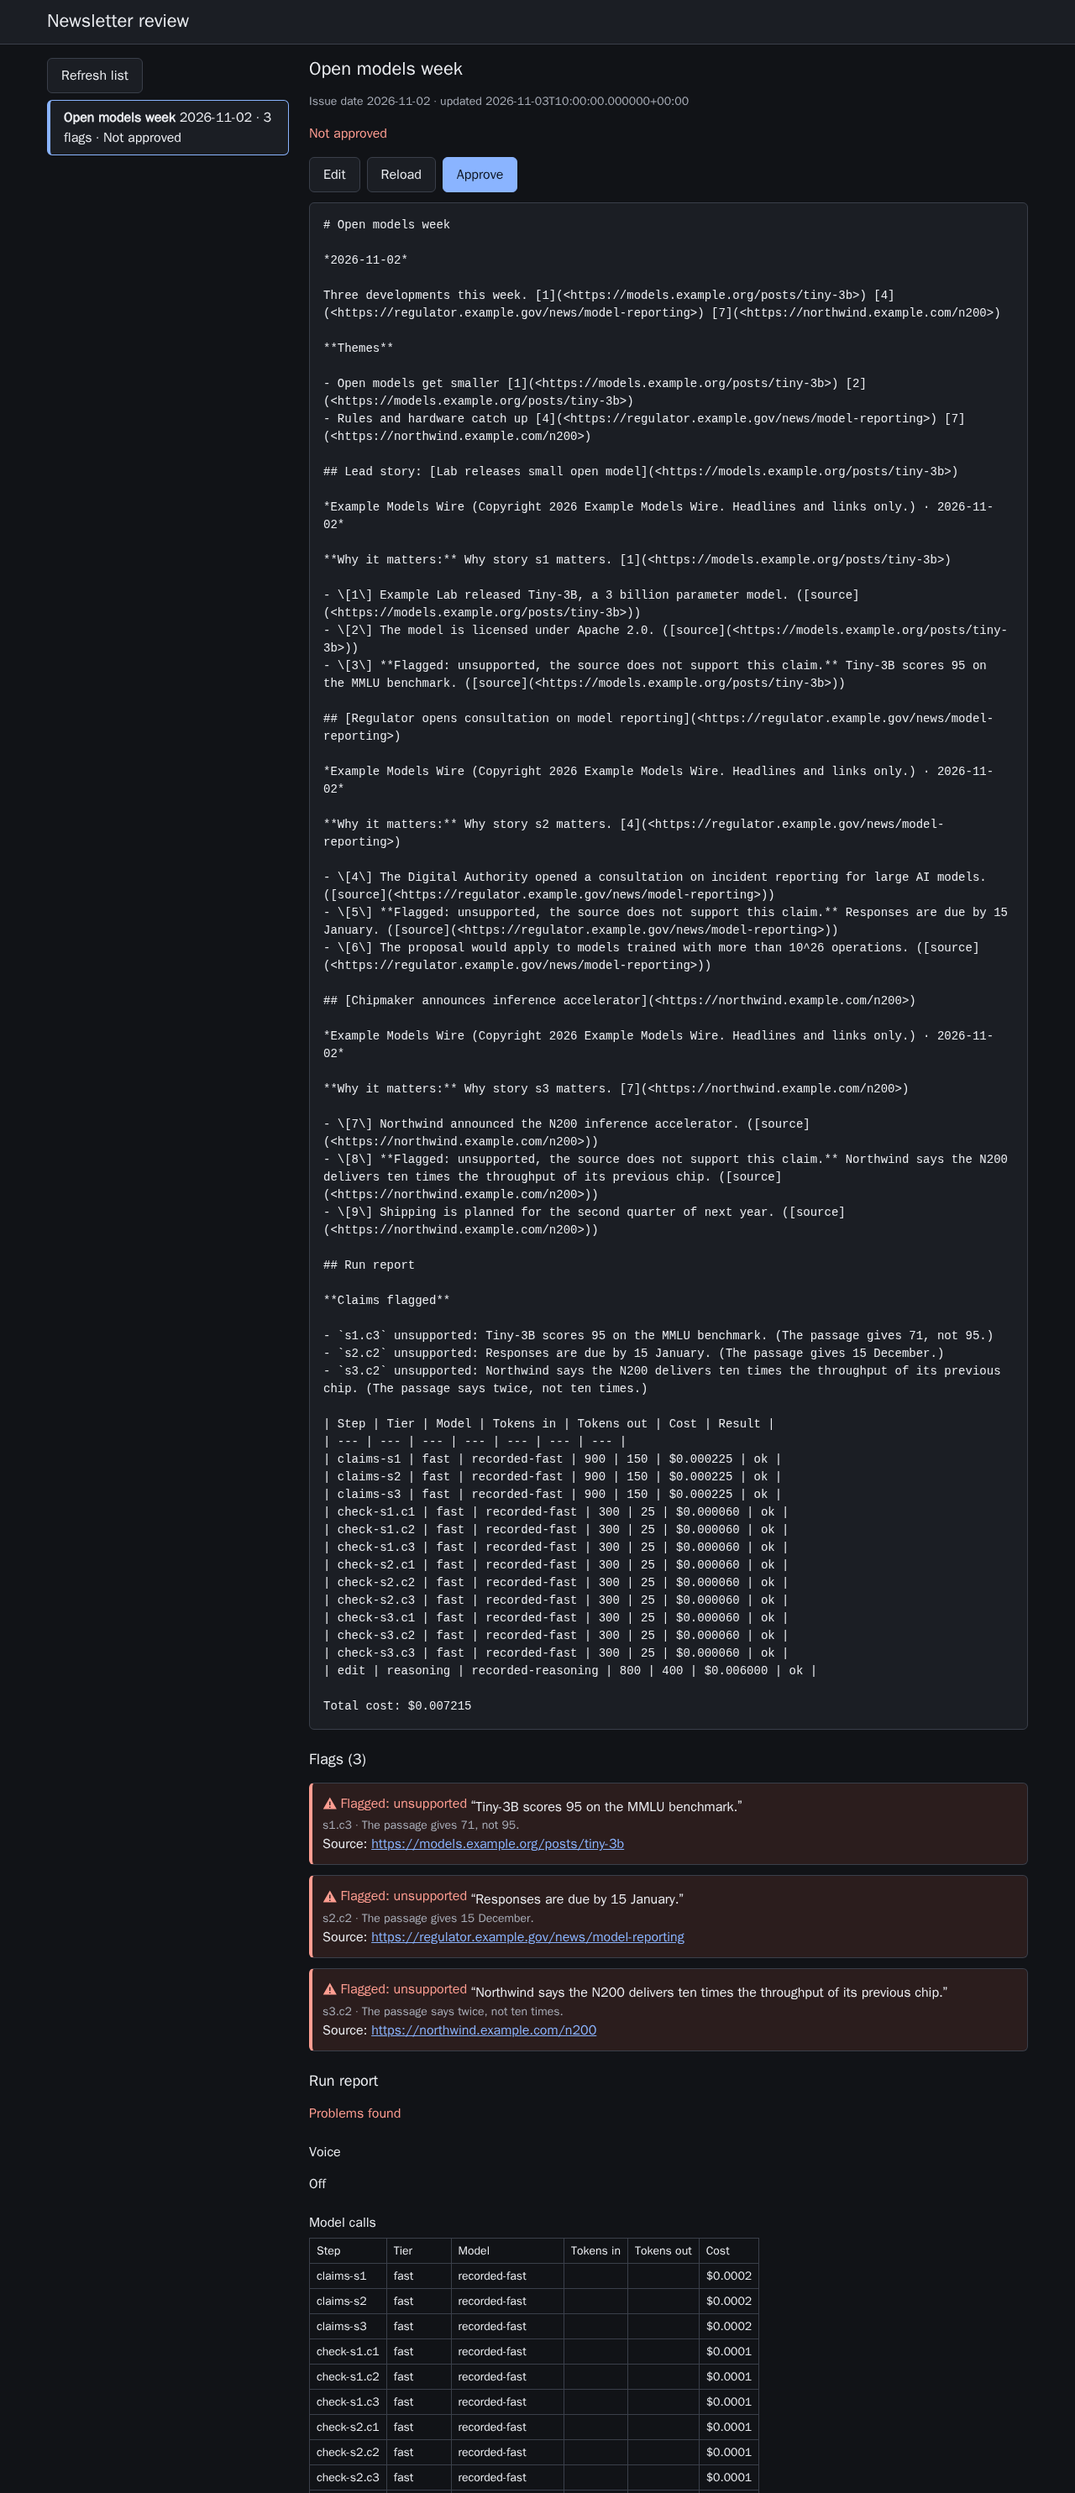
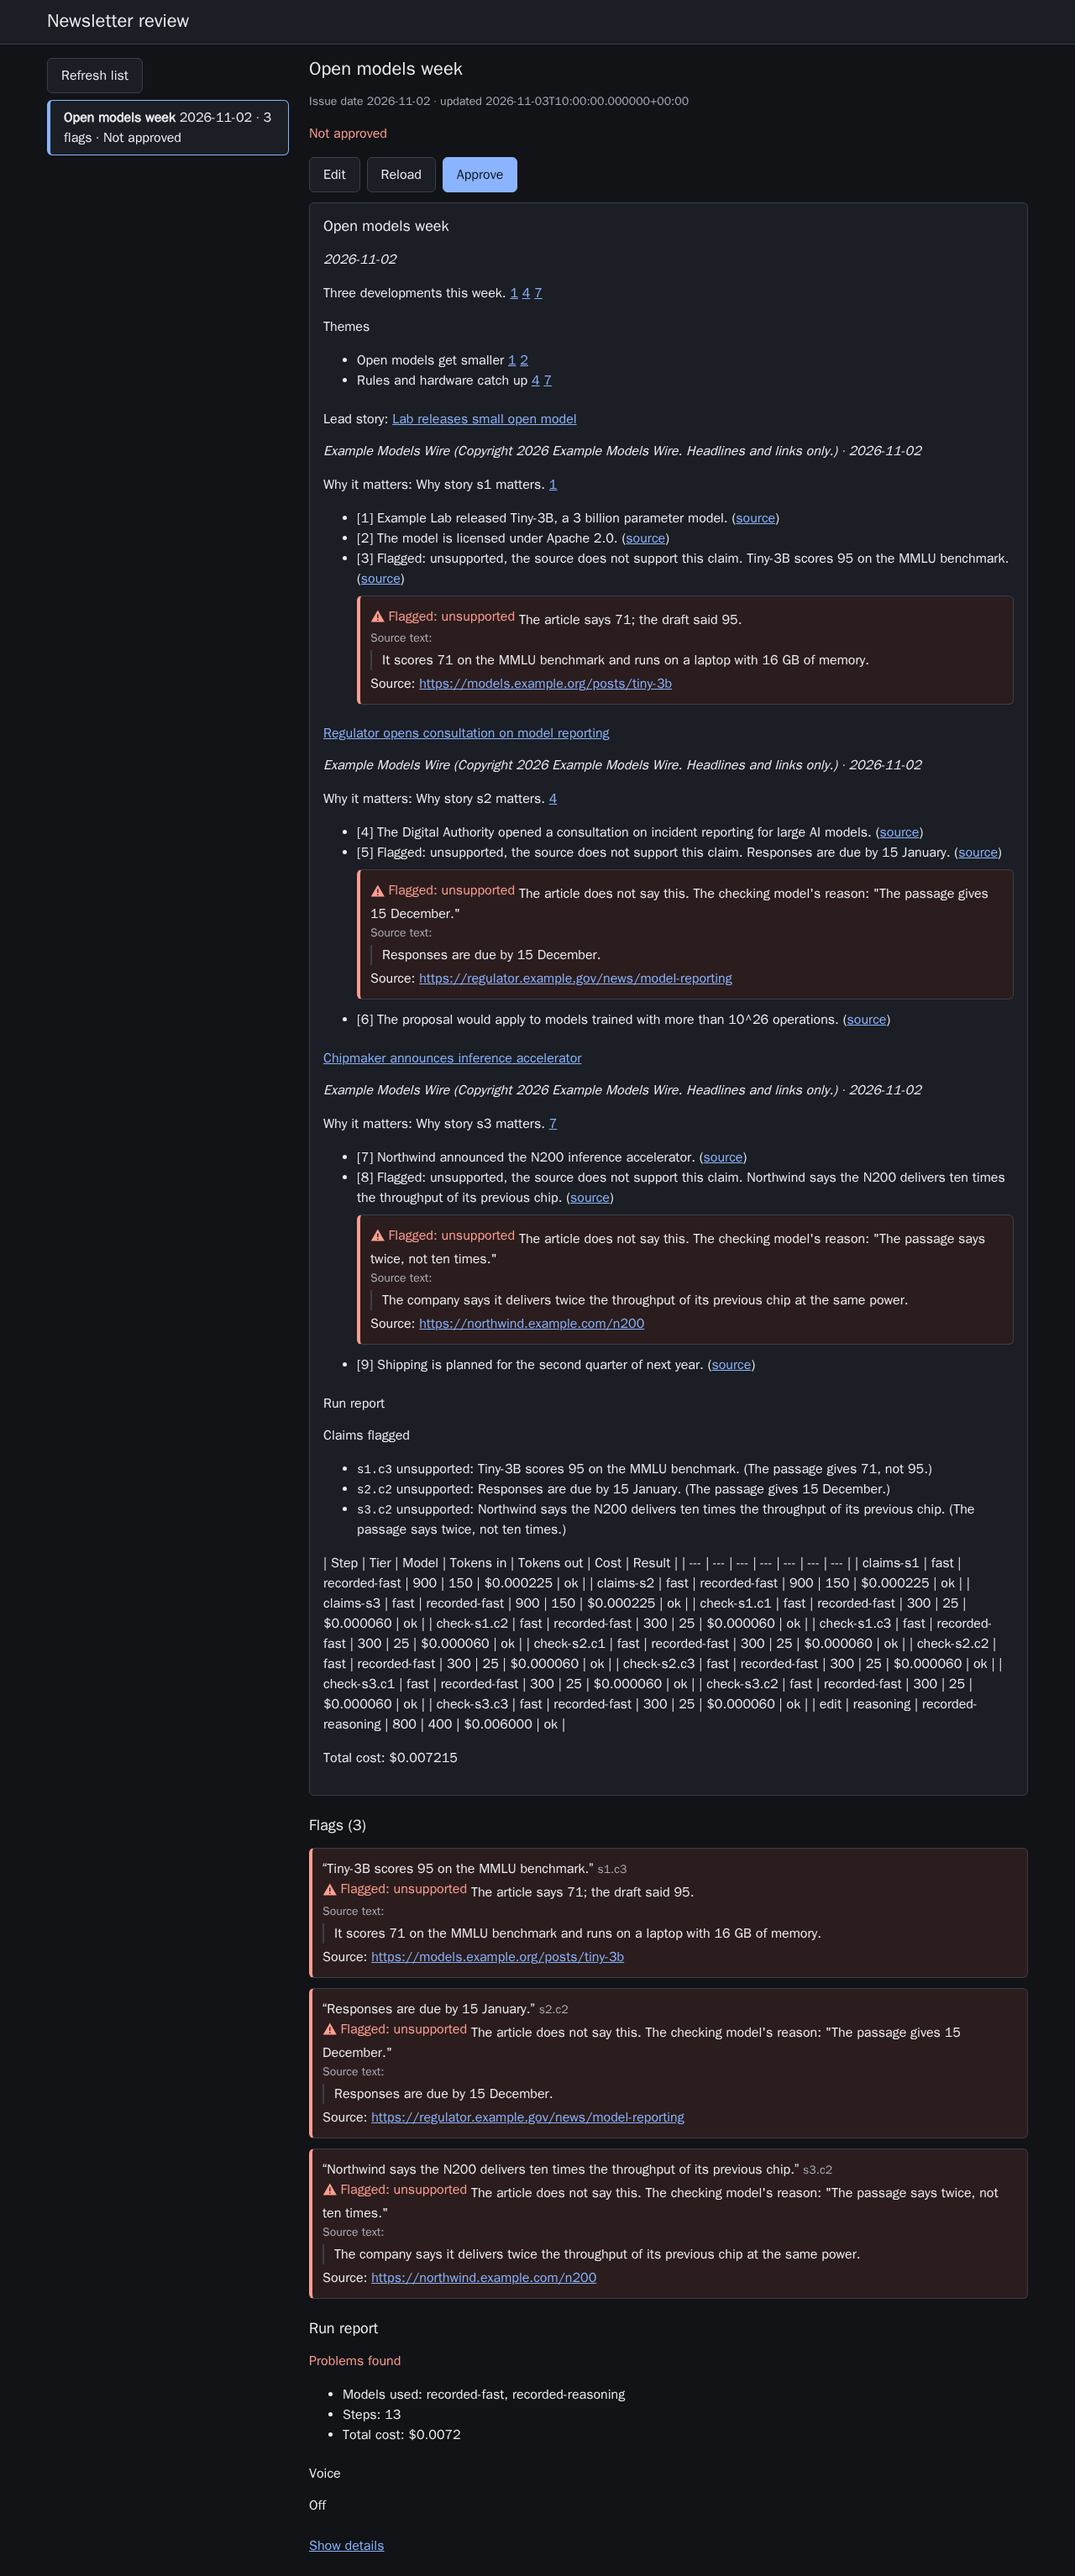
Approve opens a sandboxed email preview of the approved draft; nothing is sent (epic 09.1 T2)

diff --git a/web/src/DraftView.tsx b/web/src/DraftView.tsx
@@ -101,19 +101,22 @@ export function DraftView({ api, draft, onChange }: { api: Api; draft: Draft; on
   const [editing, setEditing] = useState<string | null>(null);
   const [busy, setBusy] = useState(false);
   const [error, setError] = useState<string | null>(null);
+  // The email for the text that was approved here; an edit that clears the approval hides it.
+  const [email, setEmail] = useState<{ text: string; html: string } | null>(null);
+  const preview = email && draft.approved && email.text === draft.text ? email.html : null;
   const unsaved = editing !== null && editing !== draft.text;
   const flags = useMemo(() => draft.flags ?? [], [draft.flags]);
   const components = useMemo(() => withFlags(flags), [flags]);
   const rehypePlugins = useMemo(() => [markFlags(flags)], [flags]);
   const focus = draft.focus || draft.report?.focus;
 
-  async function act(action: () => Promise<Draft>, after?: (d: Draft) => void) {
+  async function act(action: () => Promise<Draft>, after?: (d: Draft) => void | Promise<void>) {
     setBusy(true);
     setError(null);
     try {
       const updated = await action();
       onChange(updated);
-      after?.(updated);
+      await after?.(updated);
     } catch (e) {
       setError(e instanceof Error ? e.message : String(e));
     } finally {
@@ -214,12 +217,25 @@ export function DraftView({ api, draft, onChange }: { api: Api; draft: Draft; on
             className="primary"
             disabled={busy || unsaved}
             title={unsaved ? "Save or discard the edit first" : undefined}
-            onClick={() => act(() => api.approve(draft))}
+            onClick={() =>
+              act(
+                () => api.approve(draft),
+                async (approved) => setEmail({ text: approved.text, html: (await api.email(approved.id)).html }),
+              )
+            }
           >
             Approve
           </button>
         )}
       </div>
+      {preview !== null && (
+        <section className="email-preview" aria-labelledby="email-preview-title">
+          <h3 id="email-preview-title">Email preview</h3>
+          <p className="state">Nothing was sent. This is what would go out.</p>
+          {/* sandbox="" with no allow-* lets the email run no script, submit no form and open nothing. */}
+          <iframe title="Email preview" sandbox="" srcDoc={preview} />
+        </section>
+      )}
       {editing !== null && draft.approved && (
         <p className="state">This draft is approved. Saving a change clears the approval: approve it again after.</p>
       )}

diff --git a/web/src/App.test.tsx b/web/src/App.test.tsx
@@ -36,6 +36,10 @@ function fakeApi(start: Draft) {
       draft = { ...draft, approval: { sha256: body.sha256, approved_at: "now" }, approved: true };
       return json(200, draft);
     }
+    if (method === "GET" && url === `/api/drafts/${draft.id}/email`) {
+      if (!draft.approved) return json(409, { detail: "the draft's current text is not approved; approve it first" });
+      return json(200, { html: `<p>${draft.text}</p>` });
+    }
     return json(404, { detail: "not found" });
   });
   return {
@@ -272,6 +276,18 @@ describe("edit and approve", () => {
     const call = api.calls.find((c) => c.method === "POST");
     expect(call?.body).toEqual({ sha256: await sha(makeDraft().text) });
     expect(screen.queryByRole("button", { name: "Approve" })).toBeNull();
+  });
+
+  it("then shows the email the API would send, and sends nothing", async () => {
+    const { api, user } = await openDraft();
+    await user.click(screen.getByRole("button", { name: "Approve" }));
+    const region = await screen.findByRole("region", { name: "Email preview" });
+    expect(region).toHaveTextContent("Nothing was sent. This is what would go out.");
+    expect(within(region).getByTitle("Email preview")).toHaveAttribute("srcdoc", `<p>${makeDraft().text}</p>`);
+    expect(api.calls.map((c) => `${c.method} ${c.url}`).slice(-2)).toEqual([
+      `POST /api/drafts/${makeDraft().id}/approve`,
+      `GET /api/drafts/${makeDraft().id}/email`,
+    ]);
   });
 
   it("refuses to show approved when the draft changed under the reviewer", async () => {

diff --git a/web/src/api.ts b/web/src/api.ts
@@ -1,4 +1,4 @@
-/** The page's calls to `newsletter serve`: check feeds, start a run, list, read, edit and approve drafts. */
+/** The page's calls to `newsletter serve`: check feeds, start a run, list, read, edit and approve drafts, preview the email. */
 import { modelHeaders, type ModelCredentials } from "./modelAccess";
 
 /** One entry of `GET /api/providers` (plan 08's `providers.json`); it holds no secrets. */
@@ -291,6 +291,8 @@ export function createApi(access: Access, base = "", onUnauthorized?: (error: Ap
       call<Draft>("POST", `/api/drafts/${encodeURIComponent(draft.id)}/approve`, {
         sha256: await sha256Hex(draft.text),
       }),
+    /** The approved text as an HTML email, to look at only: nothing is sent. 409 before approval. */
+    email: (id: string) => call<{ html: string }>("GET", `/api/drafts/${encodeURIComponent(id)}/email`),
   };
 }
 

diff --git a/web/e2e/review.spec.ts b/web/e2e/review.spec.ts
@@ -106,6 +106,10 @@ test("edit, then approve, and both are kept by the API", async ({ page }) => {
 
   await approve.click();
   await expect(page.getByTestId("approval")).toHaveText(/^Approved/);
+  const preview = page.getByRole("region", { name: "Email preview" });
+  await expect(preview).toContainText("Nothing was sent. This is what would go out.");
+  await expect(preview.locator("iframe")).toHaveAttribute("sandbox", "");
+  await expect(preview.frameLocator("iframe").locator("body")).toContainText("Edited by the reviewer.");
 
   // A fresh load reads it back from the API: the edit and the approval were stored.
   await openDraft(page);

diff --git a/web/src/styles.css b/web/src/styles.css
@@ -332,6 +332,18 @@ nav button[aria-current] {
 .draft-text > :first-child {
   margin-top: 0;
 }
+.email-preview {
+  margin: var(--space-4) 0;
+}
+/* The email brings its own colours, as a mail client shows it. */
+.email-preview iframe {
+  display: block;
+  width: 100%;
+  height: 32rem;
+  border: 1px solid var(--color-border);
+  border-radius: var(--radius);
+  background: #ffffff;
+}
 .focus-line {
   font-weight: 600;
 }

diff --git a/README.md b/README.md
@@ -140,7 +140,7 @@ Every call but the health check needs `Authorization: Bearer $NEWSLETTER_API_TOK
 
 ### The review page
 
-`web/` is a page (React and Vite) for reviewing drafts. Paste the API token, pick a draft, and read it as a newsletter, drawn from its Markdown (headings, lead, themes, stories and claim links), with its flagged claims and its run report: failed feeds, linked articles read or skipped, dropped stories and claims, editor and voice problems, and each model call with its tokens and cost. Each flagged claim has a note beside it, marked by text and icon: why it is flagged in plain words (the model's reason on a draft from before explanations were kept), the source passage and the source link. The run's focus, when it had one, is shown above the draft and in the run report. Edit opens the Markdown in a text box: Save stores it, which clears any approval (the page warns you first on an approved draft), and Done editing goes back to the newsletter; Done editing, Reload and Approve are off while an edit is unsaved, and Discard changes drops it. It sends the sha256 of the text you read, so if the draft changed since, the API refuses it and the page says so; Reload fetches the new text. HTML in the draft is always shown as text, never run (`react-markdown` without `rehype-raw`), and only absolute http and https URLs become links, opened in a new tab with `rel="noopener noreferrer"`. The token stays in the page's memory, so a reload asks for it again. When the server lists providers at `GET /api/providers`, the page asks for a demo code or your own key in a key panel instead (Key button in the header), keeps it in session storage (local storage with "Remember on this device"; Clear wipes both), and sends it only as the `X-Model-Preset` header with `X-Model-Key` or `X-Demo-Code`. With a key or code saved, the page opens on a form: up to six feed addresses (Add a feed, Remove, or a preset from `GET /api/presets` to fill them), each checked with `POST /api/feeds/check` when you leave it and again before the run, with "OK, 20 items" or the reason next to it; an optional focus of up to 300 characters; Make my newsletter, which stays off until one feed is OK; and See an example, which opens the seeded draft. A busy server says "Someone else is making one right now. Try again in a minute." and opens Try again after the wait it gives. Earlier drafts lists the example and the drafts this browser made: the owner token the server issues with a run is kept in session storage and sent back as `X-Owner-Token`. After Make my newsletter the page shows each step of the run from `GET /api/runs/{id}`, asked every 2 s: its state by text and icon, its counts as a progress bar, each failed feed with its reason, and how long a running step has run; after 30 s with no change it says "Still working on <step>…". It opens the draft when the run is done, shows the run's plain message and Start over when it fails, and says "Lost contact, retrying…" when a poll fails (it stops after 10 in a row and says so). A refused key (401) stops the polling at once and says so, and saving the key again carries on. Only the run's id is kept in session storage, so a reload resumes the progress once the key is back. While the draft list, a draft or its run report loads, the page says so; when there are no drafts yet, or a draft has no text or no run report, it says that; and when a load fails it shows the API's reason with a way to try again (Refresh list, Try again).
+`web/` is a page (React and Vite) for reviewing drafts. Paste the API token, pick a draft, and read it as a newsletter, drawn from its Markdown (headings, lead, themes, stories and claim links), with its flagged claims and its run report: failed feeds, linked articles read or skipped, dropped stories and claims, editor and voice problems, and each model call with its tokens and cost. Each flagged claim has a note beside it, marked by text and icon: why it is flagged in plain words (the model's reason on a draft from before explanations were kept), the source passage and the source link. The run's focus, when it had one, is shown above the draft and in the run report. Edit opens the Markdown in a text box: Save stores it, which clears any approval (the page warns you first on an approved draft), and Done editing goes back to the newsletter; Done editing, Reload and Approve are off while an edit is unsaved, and Discard changes drops it. It sends the sha256 of the text you read, so if the draft changed since, the API refuses it and the page says so; Reload fetches the new text. Once Approve succeeds, the page opens "Email preview": the HTML from `GET /api/drafts/{id}/email` in an `iframe` with `sandbox=""` and `srcdoc`, so it runs no script and loads nothing, under "Nothing was sent. This is what would go out." There is no send button; saving an edit clears the approval and hides the preview. HTML in the draft is always shown as text, never run (`react-markdown` without `rehype-raw`), and only absolute http and https URLs become links, opened in a new tab with `rel="noopener noreferrer"`. The token stays in the page's memory, so a reload asks for it again. When the server lists providers at `GET /api/providers`, the page asks for a demo code or your own key in a key panel instead (Key button in the header), keeps it in session storage (local storage with "Remember on this device"; Clear wipes both), and sends it only as the `X-Model-Preset` header with `X-Model-Key` or `X-Demo-Code`. With a key or code saved, the page opens on a form: up to six feed addresses (Add a feed, Remove, or a preset from `GET /api/presets` to fill them), each checked with `POST /api/feeds/check` when you leave it and again before the run, with "OK, 20 items" or the reason next to it; an optional focus of up to 300 characters; Make my newsletter, which stays off until one feed is OK; and See an example, which opens the seeded draft. A busy server says "Someone else is making one right now. Try again in a minute." and opens Try again after the wait it gives. Earlier drafts lists the example and the drafts this browser made: the owner token the server issues with a run is kept in session storage and sent back as `X-Owner-Token`. After Make my newsletter the page shows each step of the run from `GET /api/runs/{id}`, asked every 2 s: its state by text and icon, its counts as a progress bar, each failed feed with its reason, and how long a running step has run; after 30 s with no change it says "Still working on <step>…". It opens the draft when the run is done, shows the run's plain message and Start over when it fails, and says "Lost contact, retrying…" when a poll fails (it stops after 10 in a row and says so). A refused key (401) stops the polling at once and says so, and saving the key again carries on. Only the run's id is kept in session storage, so a reload resumes the progress once the key is back. While the draft list, a draft or its run report loads, the page says so; when there are no drafts yet, or a draft has no text or no run report, it says that; and when a load fails it shows the API's reason with a way to try again (Refresh list, Try again).
 
 ```bash
 export NEWSLETTER_API_TOKEN=$(openssl rand -hex 32)

diff --git a/CHANGELOG.md b/CHANGELOG.md
@@ -2,6 +2,7 @@
 
 ## Unreleased
 
+- After Approve (still the sha256 of the text as read), the review page opens "Email preview": the approved draft as `GET /api/drafts/{id}/email` renders it, in an `iframe` with `sandbox=""` (no `allow-scripts`, nothing else allowed) and `srcdoc`, under "Nothing was sent. This is what would go out." There is no send button and no send code. If the preview cannot be read, the page shows the API's reason and the draft stays approved; an edit that clears the approval hides the preview. (epic 09.1)
 - The run report on the review page opens with a short summary built from the report: the models used (each once), the number of model calls and the total cost, with "some costs unknown" when `cost_complete` is false (or, on an older report, a step has no cost) and "unknown" when the report has no total. When the editor failed it shows the plain `editor_message` ("The editor failed." on an older report) instead of the raw error. The Model calls table, each step's cost and the editor's raw error are behind a Show details button, closed by default; what failed, was left out or kept neutral stays in view. (epic 09.1)
 - A key or demo code the API refuses (401) no longer replaces the saved one: the panel says why, while storage, the page's client and the draft list keep the key that worked. A new key that meets any other failure is still kept, so Try again uses it. (epic 09)
 - The live progress no longer treats a refused key as a lost connection. A 401 from `GET /api/runs/{id}` stops the polling at once and says "The server refused the key" with the API's message, so the key panel opens once instead of every 2 s after the visitor closes it; saving a key again resumes the run. Any other 4xx (but 404, 408 and 429) also stops it and says the server refused, with Try again and Start over. (epic 09)
